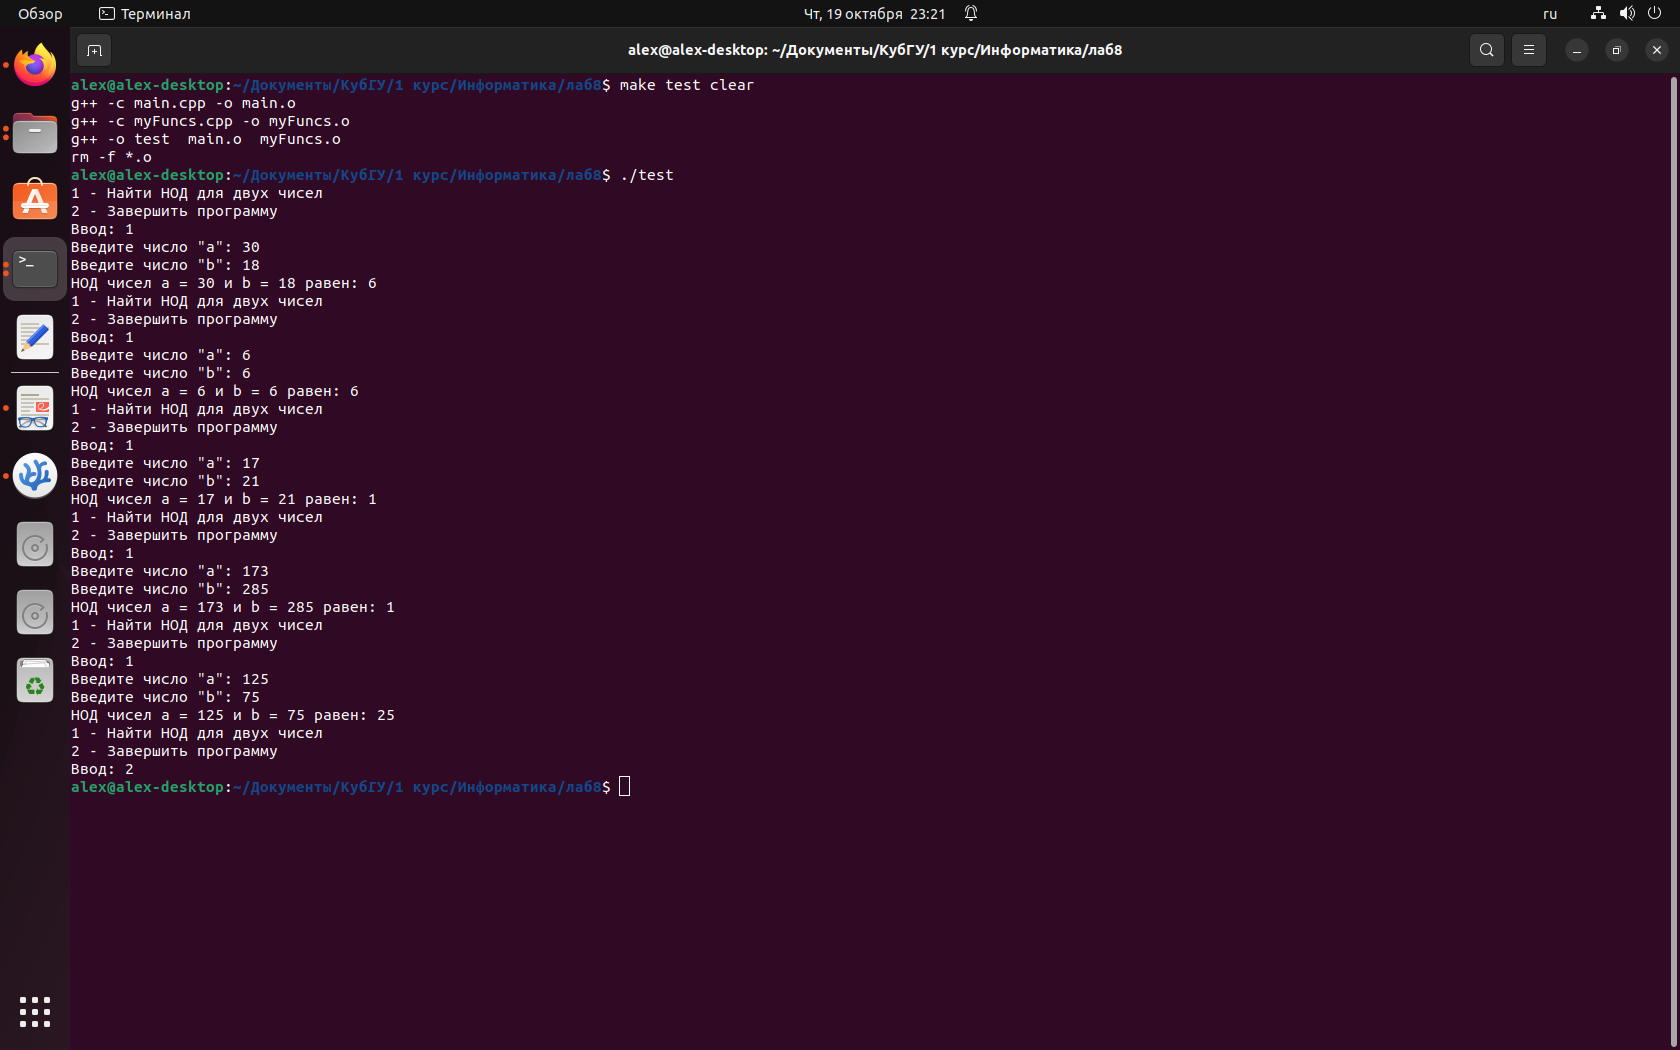
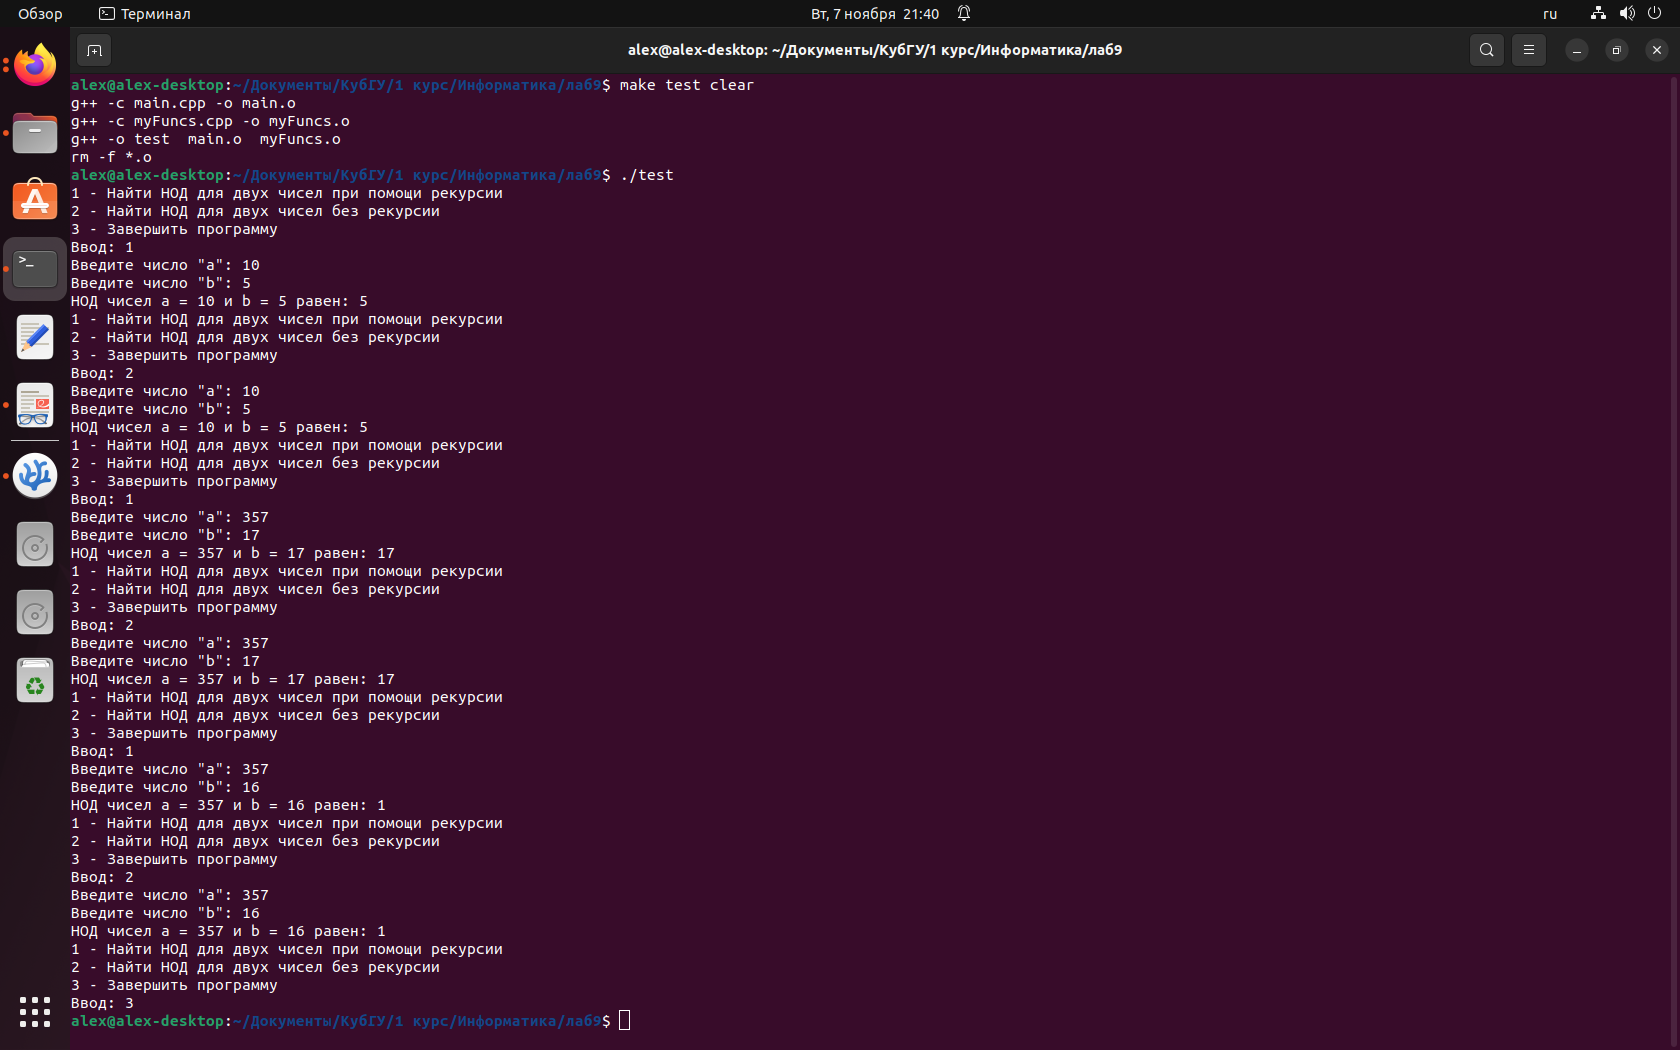
Add files via upload

diff --git a/1st course/algorithms/lab9/myFuncs.cpp b/1st course/algorithms/lab9/myFuncs.cpp
@@ -7,8 +7,9 @@ void userInterface()
     int a, b, c;
     while (true)
     {
-        std::cout << "1 - Найти НОД для двух чисел" << std::endl;
-        std::cout << "2 - Завершить программу" << std::endl;
+        std::cout << "1 - Найти НОД для двух чисел при помощи рекурсии" << std::endl;
+        std::cout << "2 - Найти НОД для двух чисел без рекурсии" << std::endl;
+        std::cout << "3 - Завершить программу" << std::endl;
         std::cout << "Ввод: ";
         std::cin >> buffer;
         choice = atoi(buffer);
@@ -28,6 +29,21 @@ void userInterface()
             std::cout << "НОД чисел а = " << a << " и b = " << b << " равен: " << c << std::endl;
         }
         else if (choice == 2)
+        {
+            std::cout << "Введите число \"a\": ";
+            std::cin >> buffer;
+            a = atoi(buffer);
+            std::cout << "Введите число \"b\": ";
+            std::cin >> buffer;
+            b = atoi(buffer);
+            if (a == 0 || b == 0)
+            {
+                continue;
+            }
+            c = getNOD2(a, b);
+            std::cout << "НОД чисел а = " << a << " и b = " << b << " равен: " << c << std::endl;
+        }
+        else if (choice == 3)
         {
             break;
         }
@@ -59,4 +75,39 @@ int getNOD(int a, int b)
     {
         return a;
     }
+}
+
+int getNOD2(int a, int b)
+{
+    int c;
+    while (true)
+    {
+        
+        if (a > b)
+        {
+            c = a % b;
+            if (c == 0)
+            {
+                c = b;
+                break;
+            }
+            a = c;
+        }
+        else if (a < b)
+        {
+            c = b % a;
+            if (c == 0)
+            {
+                c = a;
+                break;
+            }
+            b = c;
+        }
+        else 
+        {
+            c = a; 
+            break;
+        }
+    }
+    return c;
 }

diff --git a/1st course/algorithms/lab9/myFuncs.h b/1st course/algorithms/lab9/myFuncs.h
@@ -7,4 +7,6 @@ void userInterface();
 
 int getNOD(int, int);
 
+int getNOD2(int a, int b);
+
 #endif
